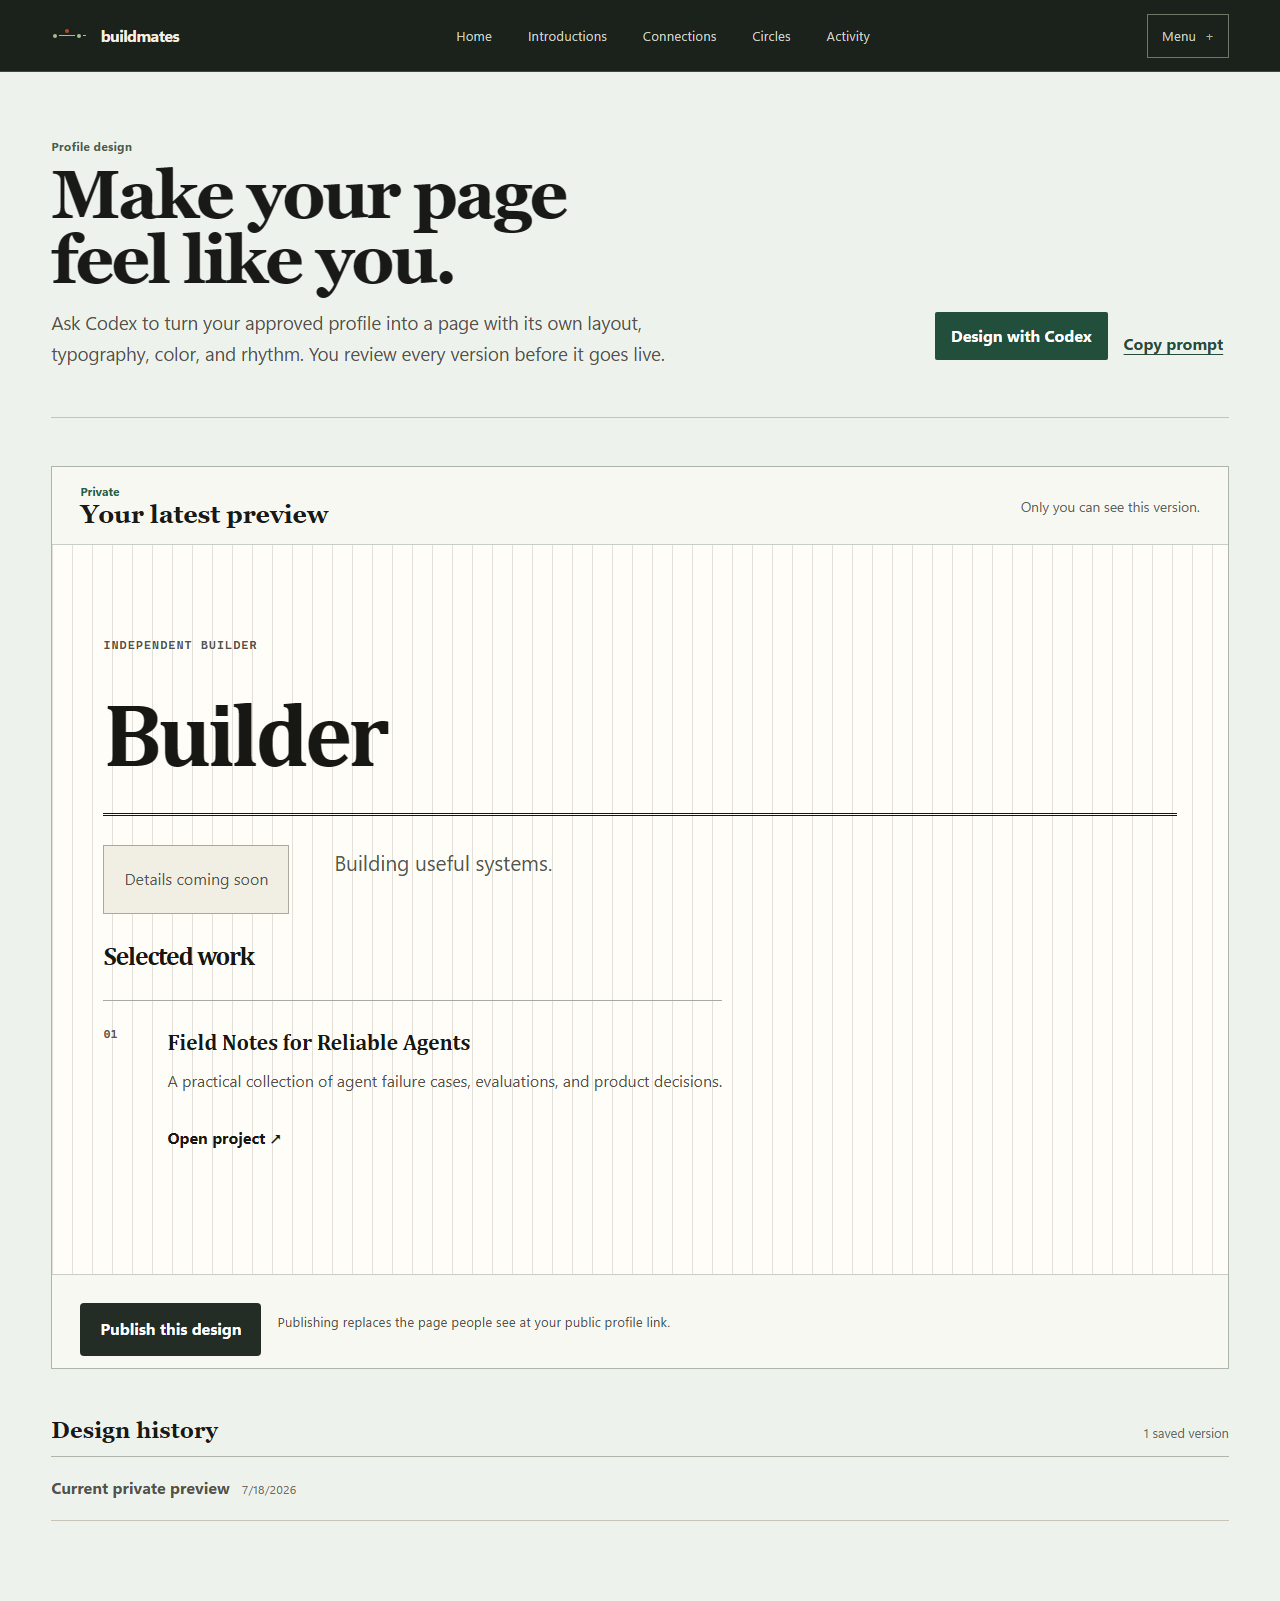
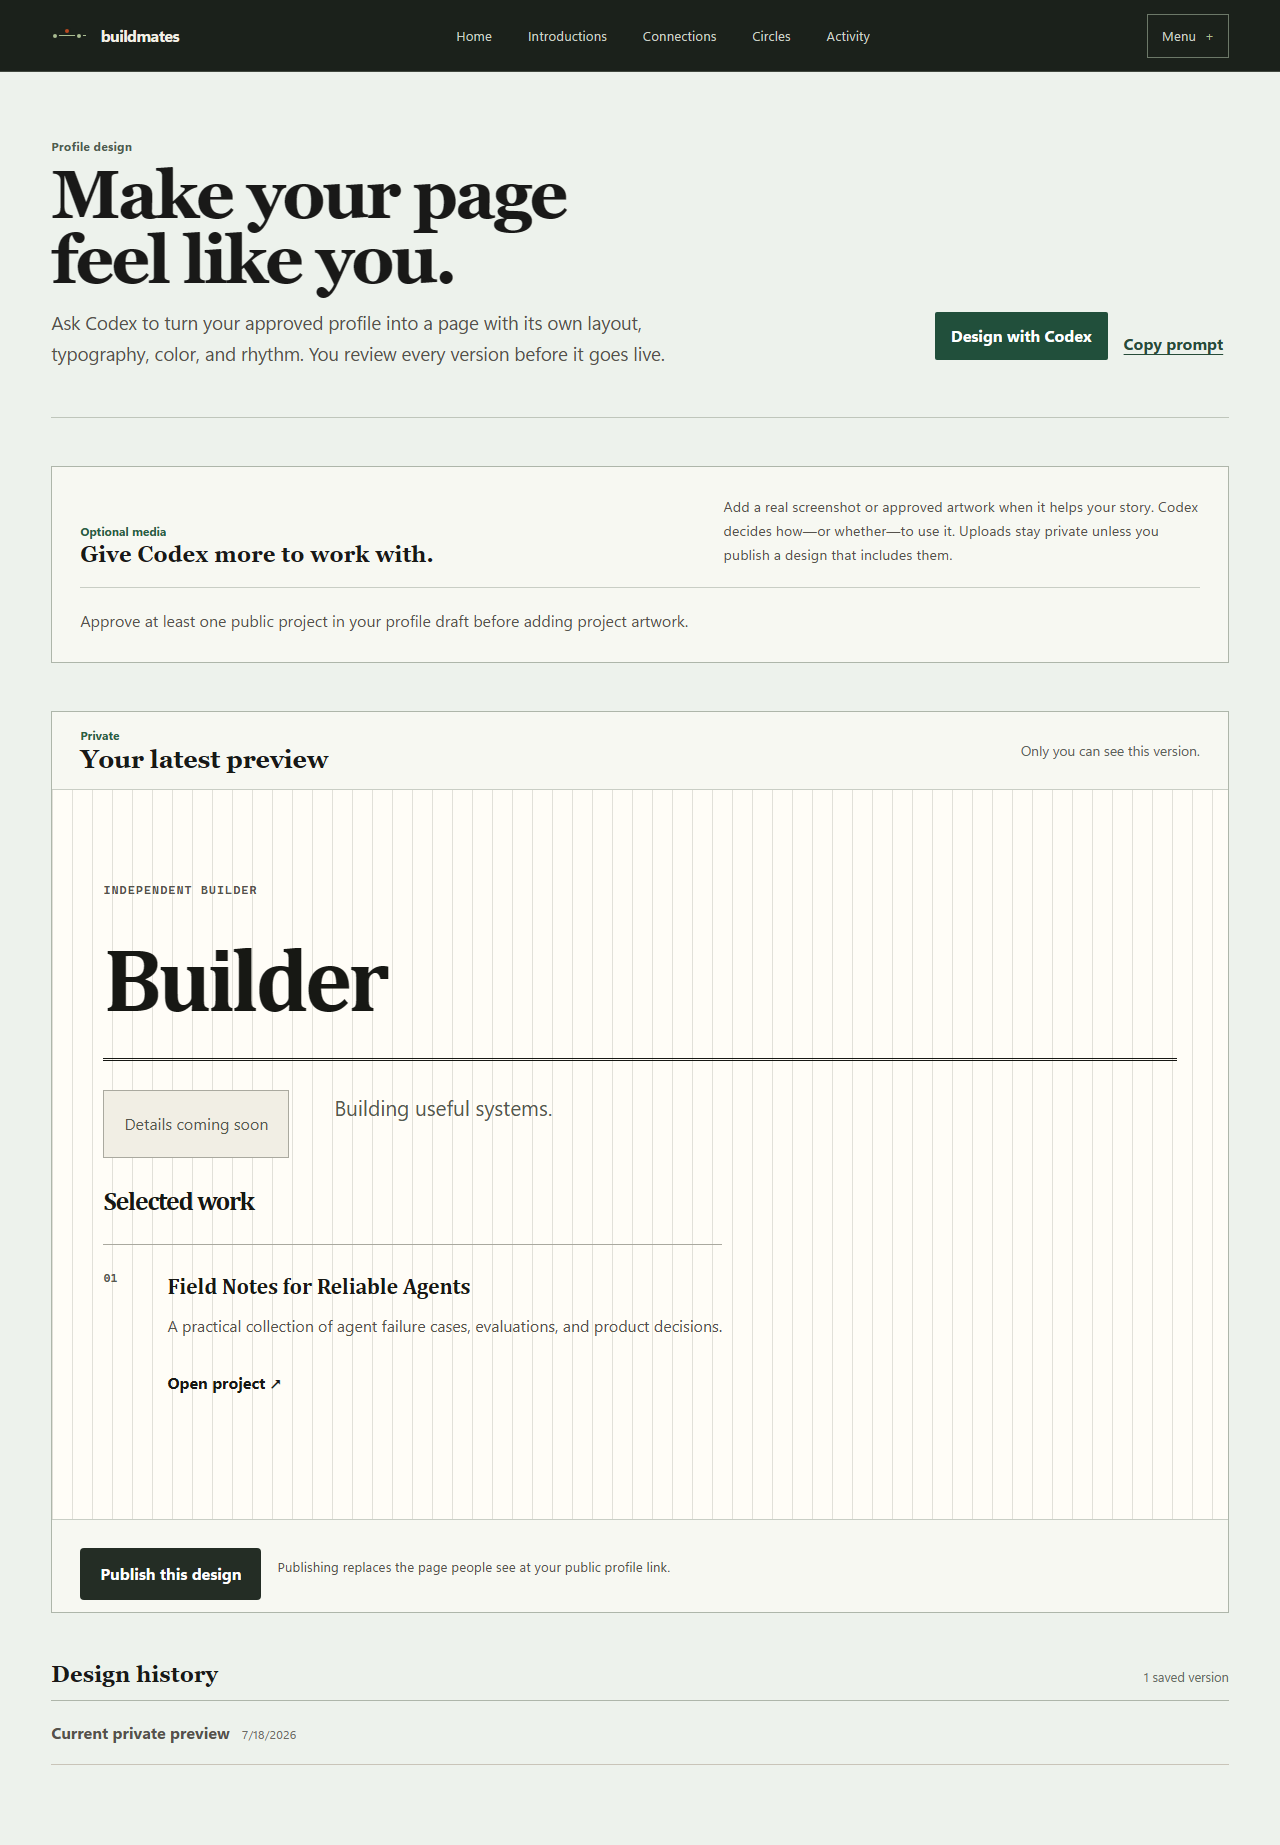
fix(surfaces): render approved private previews

diff --git a/apps/web/app/api/surfaces/profile/route.ts b/apps/web/app/api/surfaces/profile/route.ts
@@ -39,12 +39,13 @@ export async function GET() {
   try {
     const { profile, surface } = await getProfileSurface(DB, user.id);
     const [fields, projects, history, approvedMedia] = await Promise.all([
-      // A generated public layout may outlive a later audience change. Give
-      // Codex only deliberately public profile material so private or
-      // connection-scoped values cannot be copied into static fallback or
-      // decorative text inside the stored SurfaceSpec.
-      DB.prepare("SELECT field_key AS key,value_json AS valueJson FROM profile_fields WHERE profile_id=? AND audience='public' ORDER BY field_key").bind(profile.id).all<{ key: string; valueJson: string }>(),
-      DB.prepare("SELECT id,title,summary,slug FROM projects WHERE owner_user_id=? AND status='active' AND audience='public' ORDER BY updated_at DESC LIMIT 20").bind(user.id).all<{ id: string; title: string; summary: string; slug: string }>(),
+      // This route is the signed-in owner's private design workspace. Mirror
+      // the MCP generation brief: approved connection-scoped material may be
+      // rendered in a private preview, while truly private fields never cross
+      // the server boundary. The public builder route resolves its own
+      // audience-safe bindings when a revision is published.
+      DB.prepare("SELECT field_key AS key,value_json AS valueJson FROM profile_fields WHERE profile_id=? AND audience<>'private' ORDER BY field_key").bind(profile.id).all<{ key: string; valueJson: string }>(),
+      DB.prepare("SELECT id,title,summary,slug FROM projects WHERE owner_user_id=? AND status='active' AND audience<>'private' ORDER BY updated_at DESC LIMIT 20").bind(user.id).all<{ id: string; title: string; summary: string; slug: string }>(),
       DB.prepare(`SELECT revision.id,revision.revision_number AS revisionNumber,revision.base_revision_number AS baseRevisionNumber,
         revision.status,revision.spec_json AS spec,revision.created_at AS createdAt
         FROM surface_revisions revision WHERE revision.surface_id=? ORDER BY revision.revision_number DESC LIMIT 30`).bind(surface.id).all(),

diff --git a/tests/e2e/profile-design-workspace.spec.ts b/tests/e2e/profile-design-workspace.spec.ts
@@ -27,7 +27,7 @@ test("profile design workspace stays aligned and renders real project content", 
         slug: `profile-workspace-${suffix}`,
         title: "Field Notes for Reliable Agents",
         summary: "A practical collection of agent failure cases, evaluations, and product decisions.",
-        audience: "public",
+        audience: "suggested_connections",
         allowMatching: true,
         indexable: false,
         status: "active",
